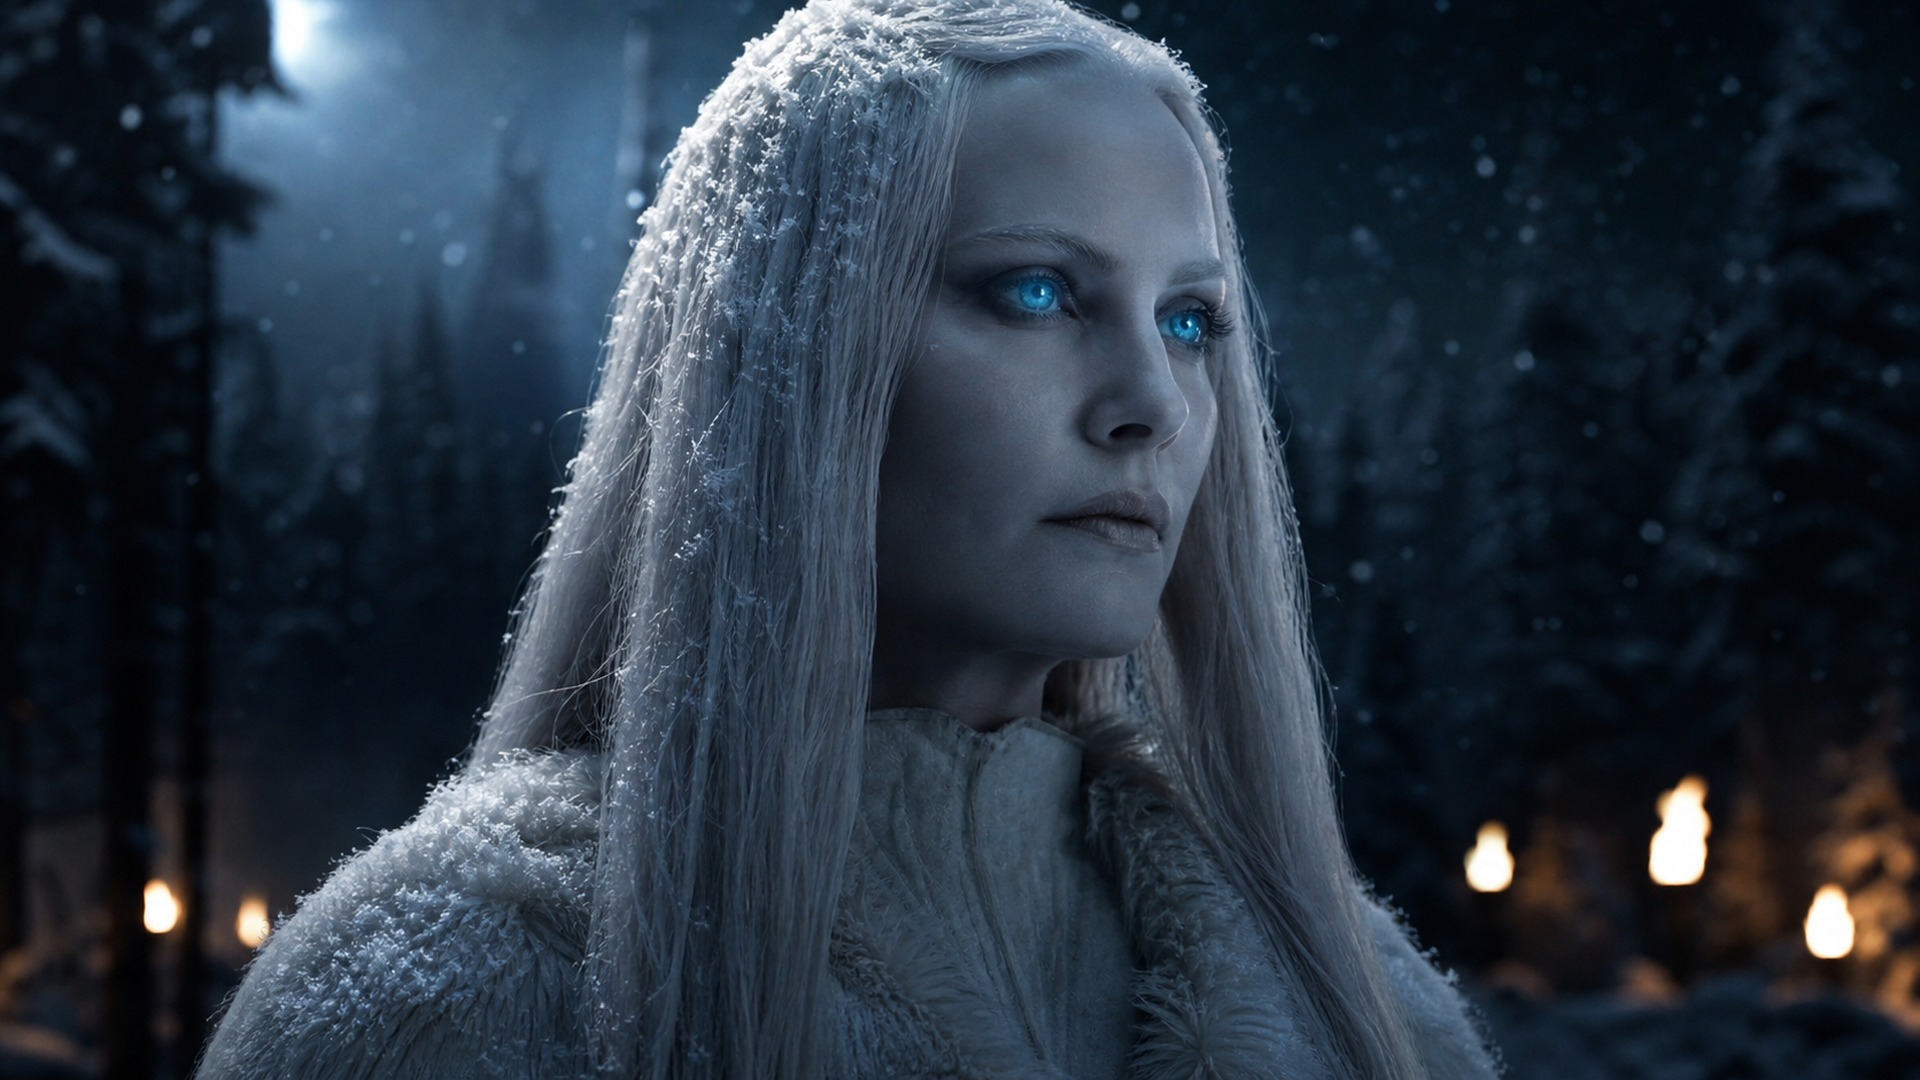
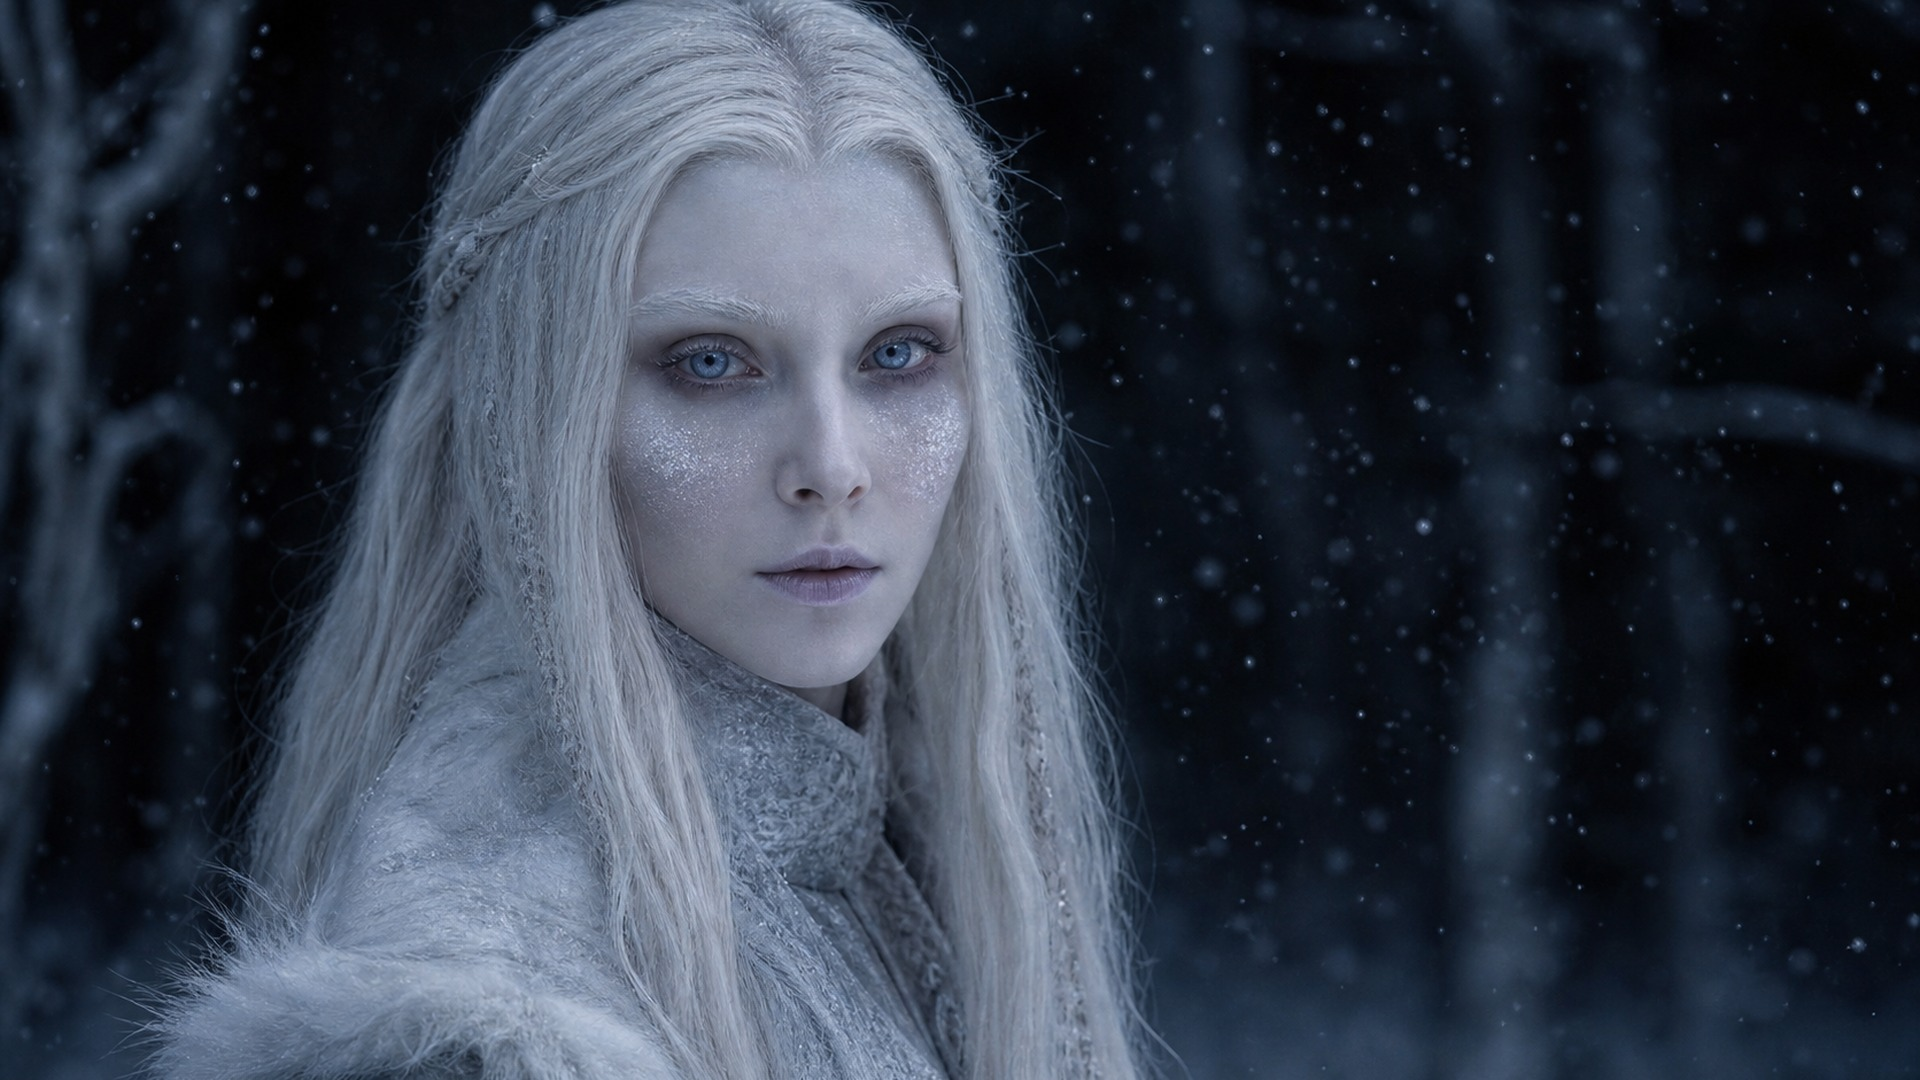
GOT001: corpse queen anchor redesigned + S039/S045 redone; S053-S058 PASS, S059 FIX; looks file + tracker v2.34

diff --git a/projects/dune_archives/data/got001_images.py b/projects/dune_archives/data/got001_images.py
@@ -27,9 +27,11 @@ CAMERA = {'EW': 'epic wide shot, low horizon, 24mm lens', 'EST': 'establishing s
 
 CAST = {
     'NIGHTS_KING': ("the Night's King, thirteenth Lord Commander of the Night's Watch, a First Men warrior of about forty, a gaunt hard weathered face with hollow cheeks, high cheekbones and a long straight nose, pale grey eyes, iron-grey streaked dark hair pulled back tight into a single warrior's braid, a close-cropped grey-shot beard, a thin hard mouth, frost-reddened skin, an old pale scar through one eyebrow, utterly fearless expression, all in black: roughspun wool, black boiled leather, a heavy black bearskin cloak, a bronze-hilted bronze longsword"),
-    'CORPSE_QUEEN': ('the corpse queen, an ageless woman of unearthly beauty, skin white as the moon with a faint blue chill, '
-                     'luminous eyes like blue stars, long straight silver-white hair, high-necked flowing robes of frost-pale '
-                     'grey with white fur at the collar, fully covered, no jewellery, serene and unsettling'),
+    'CORPSE_QUEEN': ('the corpse queen, an ageless otherworldly woman who looks barely twenty, skin white as the moon with a '
+                     'faint blue chill and a dusting of tiny frost crystals across her cheekbones, a narrow heart-shaped face with a '
+                     'small sharp chin, very large wide-set luminous eyes like blue stars, faint silver brows, long silver-white hair '
+                     'falling straight with a few fine frosted braids, high-necked flowing robes of frost-pale grey with white fur at '
+                     'the collar, fully covered, no jewellery, serene, inhuman and unsettling'),
     'OLD_NAN': ('Old Nan, an extremely old woman, tiny and bent, deeply wrinkled face, pale filmy eyes, a few wisps of white '
                 'hair under a plain linen cap, grey wool shawl, knitting needles in her hands'),
     'BRAN': ('Bran Stark as in the books, a slight boy of nine with thick AUBURN-RED Tully hair and deep blue Tully eyes, a thoughtful freckled face, grey wool and a brown fur cloak; his legs are crippled, so he rides in a wicker basket'),

diff --git a/projects/dune_archives/00_master/MASTER_INDEX_AND_TRACKER.md b/projects/dune_archives/00_master/MASTER_INDEX_AND_TRACKER.md
@@ -86,7 +86,7 @@ Folders 10, 11, 12, 19, 21, 22, 23 and 24 are empty on purpose. They fill once p
 |---|---|---|---|---|---|---|---|---|---|---|---|---|
 | DUN003 | Dune Messiah Explained Before Part Three | STANDARD | APPROVED (topic + 15 min + 150 imgs, 2026-11-23) | ☑ | ☑ 15 min | ☑ 150 imgs / 15 batches | v1.0 APPROVED | v1 (178 shots) | B001 ✅ · B002 ✅ · B003 ✅ · B004 ✅ · B005 ✅ · B006 ✅ · B007 4/10 (+Duncan pending, 1 fix) · B008 3/10 | — | — | — |
 | DUN001 | The Butlerian Jihad: The War Against the Thinking Machines | EPIC | **MASTER v1 ON DRIVE** 22_edit `1PpbtA6EKYWP-Inc31NuFSd0R0Y4immpj` (492.8 MB, 11:54, 1080p24, ≈−14.7 LUFS / −0.9 dBTP) — awaiting director review | ☑ | ☑ 11:54 | ☑ 150 imgs / 15 batches | v1.0 APPROVED · rev 1.1 (VI softened, approved) | data/dun001.py (168 cuts, 42 gfx incl. chapter cards) | B001–B015 ✅ **150/150 QC PASS** (anchors: Erasmus, Serena, Vorian, Xavier, Iblis, Agamemnon, Abulurd) | VO ✅ 13/13 · aligned 100% · maps A/B/C ✅ · mix ✅ −14 LUFS/−1 dBTP | — | — |
-| GOT001 | The Night King: Who Was He Really? | EPIC | IN PRODUCTION (script approved; VO 12/12; aligned 100%; timeline 10:35; stills 50/150) | ☑ | ☑ VO 598.7 s, 12/12 sections → programme ≈10:40 (runtime option A) | ☐ 150 imgs (50 PASS; S002 REVIEW, S045 FIX) | v1.0 APPROVED | — | — | — | — | — |
+| GOT001 | The Night King: Who Was He Really? | EPIC | IN PRODUCTION (script approved; VO 12/12; aligned 100%; timeline 10:35; stills 58/150) | ☑ | ☑ VO 598.7 s, 12/12 sections → programme ≈10:40 (runtime option A) | ☐ 150 imgs (58 PASS; S059 FIX) | v1.0 APPROVED | — | — | — | — | — |
 
 ## E. Data counts (from `00_master/build_summary.json`)
 
@@ -710,5 +710,6 @@ Index/QC v21 Doc: `1Xd5uubuVr8HSOOF7w4-m3S2es9A0PhxvI7hFvTYLZpw`. S012/S016 turn
 | v2.31 | 2026-11-25 | **Likeness rule (director): no actor or celebrity faces; book versions of characters.** Audit of all GOT001 face stills: redid S001 (Night's King anchor redesigned: about 40, grey-streaked braid, scarred brow), S004/S023 (Bran now Tully auburn; Hodor towers), S005 (Sam: pink moon face, fair, clean-shaven), S026; S021 redone empty. Spot-check of DUN003 Paul/Chani/Alia/Irulan: no film-cast resemblance. Westeros policy v1.1 §4b, looks v1.1 (Bran, Sam, Hodor, Meera, Jojen, Ygritte, Night's King rows), visual bible QC (face check mandatory, all worlds). New: S030 Brandon the Builder with giants, S031 children of the forest, S032 first oath, S033 brothers on the Wall. CI align 100%; first timeline build 10:35. Stills 33/150 |
 | v2.32 | 2026-11-25 | GOT001 S034–S043 all PASS, face-checked (Night's King made Lord Commander, eyes macro, lone sentry, at the edge, over-shoulder view of the corpse queen below, queen full figure, the ride through the haunted forest, hands touching with frost, frost face, queen walking into mist). S018 flagged FIX for continuity (pre-audit loose hair vs the new braid). Stills 42/150 |
 | v2.33 | 2026-11-25 | GOT001: S018 redone (braid continuity). S044–S052: 8 PASS (the Others as Martin describes them, through the Wall, proclaimed king and queen, enthralled brothers, the Nightfort's cold light, thirteen winters, sunrise panorama, the two hosts meet). S045 queen profile FIX (possible actress likeness), so the S002 queen anchor goes to REVIEW for a redesign. Stills 50/150 |
+| v2.34 | 2026-11-25 | GOT001: corpse queen anchor S002 REDESIGNED (ageless, barely twenty, narrow heart-shaped face, wide-set star-blue eyes, frost crystals on the cheekbones, frosted braids; silver hair and robes kept for continuity), and S039/S045 re-derived. S053–S058 PASS (alliance clasp, giants waking, the two kings, the march on the Nightfort, the Nightfort taken with brothers waking from the spell, stone ring with offerings). S059 FIX (Others not visible). Stills 58/150 |
 
 > Turn 22 note: the old manifests v11, continuity v1.4 and original tracker Doc have their Drive descriptions set to SUPERSEDED, pointing at the new IDs above. The Drive tracker v2.12 Doc is a snapshot taken before its own ID was added here.

diff --git a/projects/dune_archives/worlds/westeros/WESTEROS_BOOK_LOOKS.md b/projects/dune_archives/worlds/westeros/WESTEROS_BOOK_LOOKS.md
@@ -67,6 +67,7 @@ Ages are at the start of *A Game of Thrones* unless stated. **Show differences**
 | **Meera Reed** (16) | ◻ Slender, brown hair, green eyes; frog spear (trident), net and a long knife. | — |
 | **Jojen Reed** (13) | ◻ Small and grave; moss-green eyes; dressed all in green. Has greendreams. | — |
 | **Ygritte** | ◻ Red hair "kissed by fire", a round peasant face, pug nose, slightly crooked teeth, pale blue eyes. Not conventionally beautiful. | Avoid the show's look; use these features. |
+| **The corpse queen** (legend) | ◻ Books: "skin as white as the moon and eyes like blue stars". Channel design (GOT001): ageless, looks barely twenty, narrow heart-shaped face, wide-set star-blue eyes, frost crystals on the cheekbones, silver-white hair with frosted braids, frost-pale robes with a white fur collar. | Avoid the generic film ice-queen face (it drifted toward a famous actress). |
 | **The Night's King** (legend) | ◻ No physical description in the books. Channel design (GOT001): about 40, gaunt, iron-grey-streaked hair in a braid, a close grey-shot beard, a scar through one eyebrow, pale grey eyes, black bearskin, bronze sword. | Never the show's Night King (show-only, silhouette only). Must not drift to the Jon Snow type. |
 
 ## 2. Creatures
